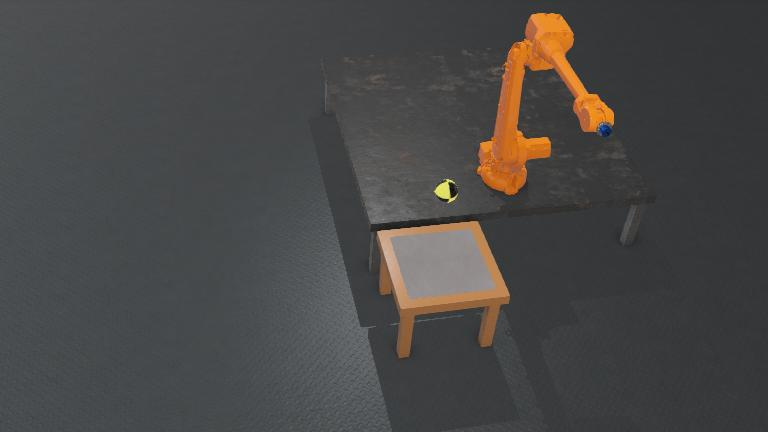
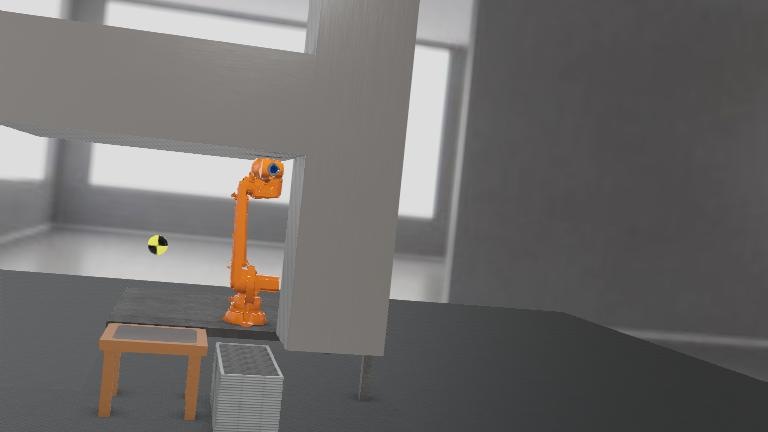
Added obstacles for new training scenarios, webots-run script start project world

diff --git a/CHANGLELOG.md b/CHANGLELOG.md
@@ -9,4 +9,4 @@
 - **Change**: Simplify ArmEvn initialization
 - **Change**: `main` script starts with param [ train, run ]
 - **Change**: `run-webots` script starts with param [ train, run ]
-- **Chore**: Simplify simulation world by removing unnecessary structures
+- **Chore**: Simplify simulation world by removing unnecessary structures and added obstacles for training scenarios
